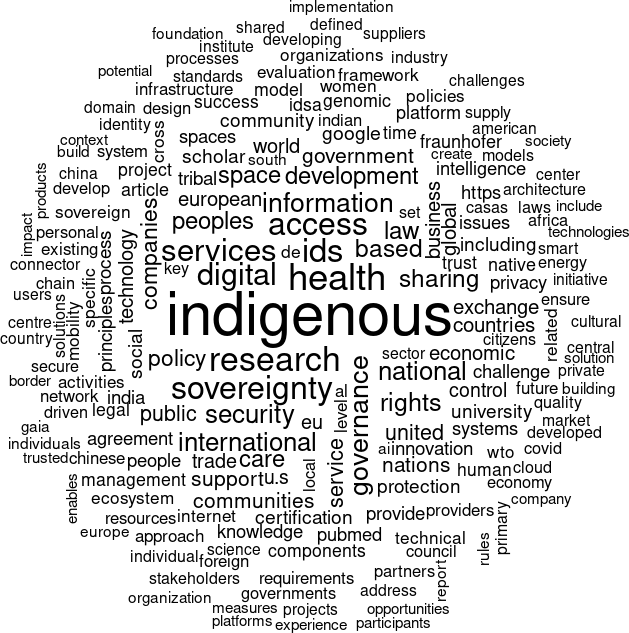
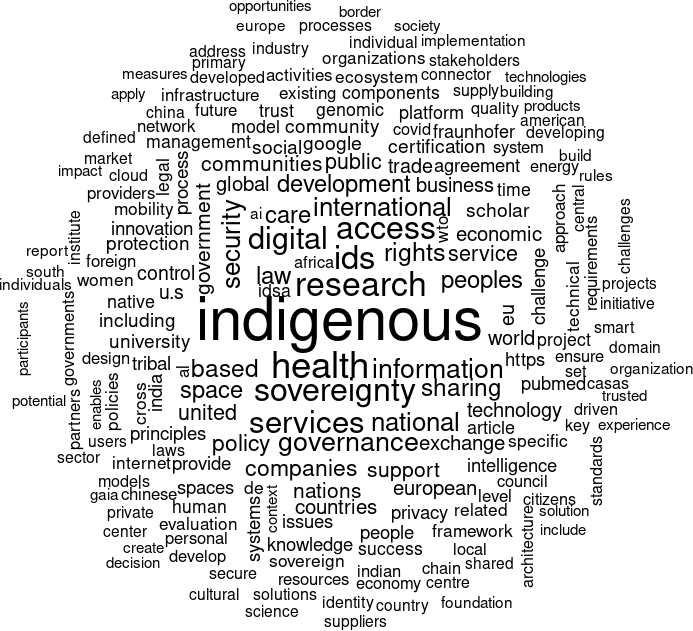
Rob edit

diff --git a/docs/index.html b/docs/index.html
@@ -2367,10 +2367,39 @@ function init_posts_list() {
 <div class="posts-container posts-with-sidebar posts-apply-limit l-screen-inset">
 <div class="posts-list">
 <h1 class="posts-list-caption" data-caption="Articles">Articles</h1>
+<a href="posts/2023-02-23-hyperlink-networks-and-website-text-content/" class="post-preview">
+<script class="post-metadata" type="text/json">{"categories":["rstats","rvest","tidytext","hyperlink networks","vosonsml","text analysis","visualisation","word cloud","comparison cloud","data sovereignty"]}</script>
+<div class="metadata">
+<div class="publishedDate">April 13, 2023</div>
+<div class="dt-authors">
+<div class="dt-author">Robert Ackland</div>
+<div class="dt-author">Sidiq Madya</div>
+</div>
+</div>
+<div class="thumbnail">
+<img src="posts/2023-02-23-hyperlink-networks-and-website-text-content/comparison_cloud.png"/>
+</div>
+<div class="description">
+<h2>Hyperlink networks and website text content</h2>
+<div class="dt-tags">
+<div class="dt-tag">rstats</div>
+<div class="dt-tag">rvest</div>
+<div class="dt-tag">tidytext</div>
+<div class="dt-tag">hyperlink networks</div>
+<div class="dt-tag">vosonsml</div>
+<div class="dt-tag">text analysis</div>
+<div class="dt-tag">visualisation</div>
+<div class="dt-tag">word cloud</div>
+<div class="dt-tag">comparison cloud</div>
+<div class="dt-tag">data sovereignty</div>
+</div>
+<p>Conducting basic text analysis (frequency counts, word clouds, comparison clouds) of organisational website text content.</p>
+</div>
+</a>
 <a href="posts/2023-01-20-hyperlink-networks-pre-processing/" class="post-preview">
 <script class="post-metadata" type="text/json">{"categories":["rstats","hyperlink networks","vosonsml"]}</script>
 <div class="metadata">
-<div class="publishedDate">Feb. 21, 2023</div>
+<div class="publishedDate">Feb. 22, 2023</div>
 <div class="dt-authors">
 <div class="dt-author">Robert Ackland</div>
 <div class="dt-author">Sidiq Madya</div>
@@ -2473,7 +2502,7 @@ function init_posts_list() {
 </div>
 </div>
 <div class="thumbnail">
-<img src="posts/2021-10-01-testing-bot-status-of-twitter-users/bot.png"/>
+<img data-src="posts/2021-10-01-testing-bot-status-of-twitter-users/bot.png"/>
 </div>
 <div class="description">
 <h2>Testing the bot status of users in Twitter networks collected via vosonSML</h2>
@@ -2676,7 +2705,7 @@ function init_posts_list() {
 <ul>
 <li>
 <a href="#category:Articles">Articles</a>
-<span class="category-count">(12)</span>
+<span class="category-count">(13)</span>
 </li>
 <li>
 <a href="#category:bot_detection">bot detection</a>
@@ -2687,11 +2716,19 @@ function init_posts_list() {
 <span class="category-count">(1)</span>
 </li>
 <li>
+<a href="#category:comparison_cloud">comparison cloud</a>
+<span class="category-count">(1)</span>
+</li>
+<li>
 <a href="#category:Computational_Social_Science">Computational Social Science</a>
 <span class="category-count">(1)</span>
 </li>
 <li>
 <a href="#category:conversations">conversations</a>
+<span class="category-count">(1)</span>
+</li>
+<li>
+<a href="#category:data_sovereignty">data sovereignty</a>
 <span class="category-count">(1)</span>
 </li>
 <li>
@@ -2712,7 +2749,7 @@ function init_posts_list() {
 </li>
 <li>
 <a href="#category:hyperlink_networks">hyperlink networks</a>
-<span class="category-count">(1)</span>
+<span class="category-count">(2)</span>
 </li>
 <li>
 <a href="#category:hyperlinks">hyperlinks</a>
@@ -2732,11 +2769,15 @@ function init_posts_list() {
 </li>
 <li>
 <a href="#category:rstats">rstats</a>
-<span class="category-count">(12)</span>
+<span class="category-count">(13)</span>
 </li>
 <li>
 <a href="#category:rtweet">rtweet</a>
 <span class="category-count">(2)</span>
+</li>
+<li>
+<a href="#category:rvest">rvest</a>
+<span class="category-count">(1)</span>
 </li>
 <li>
 <a href="#category:SNA">SNA</a>
@@ -2744,7 +2785,11 @@ function init_posts_list() {
 </li>
 <li>
 <a href="#category:text_analysis">text analysis</a>
-<span class="category-count">(2)</span>
+<span class="category-count">(3)</span>
+</li>
+<li>
+<a href="#category:tidytext">tidytext</a>
+<span class="category-count">(1)</span>
 </li>
 <li>
 <a href="#category:timeline">timeline</a>
@@ -2756,7 +2801,7 @@ function init_posts_list() {
 </li>
 <li>
 <a href="#category:visualisation">visualisation</a>
-<span class="category-count">(3)</span>
+<span class="category-count">(4)</span>
 </li>
 <li>
 <a href="#category:voson.tcn">voson.tcn</a>
@@ -2768,11 +2813,15 @@ function init_posts_list() {
 </li>
 <li>
 <a href="#category:vosonsml">vosonsml</a>
-<span class="category-count">(2)</span>
+<span class="category-count">(3)</span>
 </li>
 <li>
 <a href="#category:vosonSML">vosonSML</a>
 <span class="category-count">(3)</span>
+</li>
+<li>
+<a href="#category:word_cloud">word cloud</a>
+<span class="category-count">(1)</span>
 </li>
 <li>
 <a href="#category:YouTube">YouTube</a>
